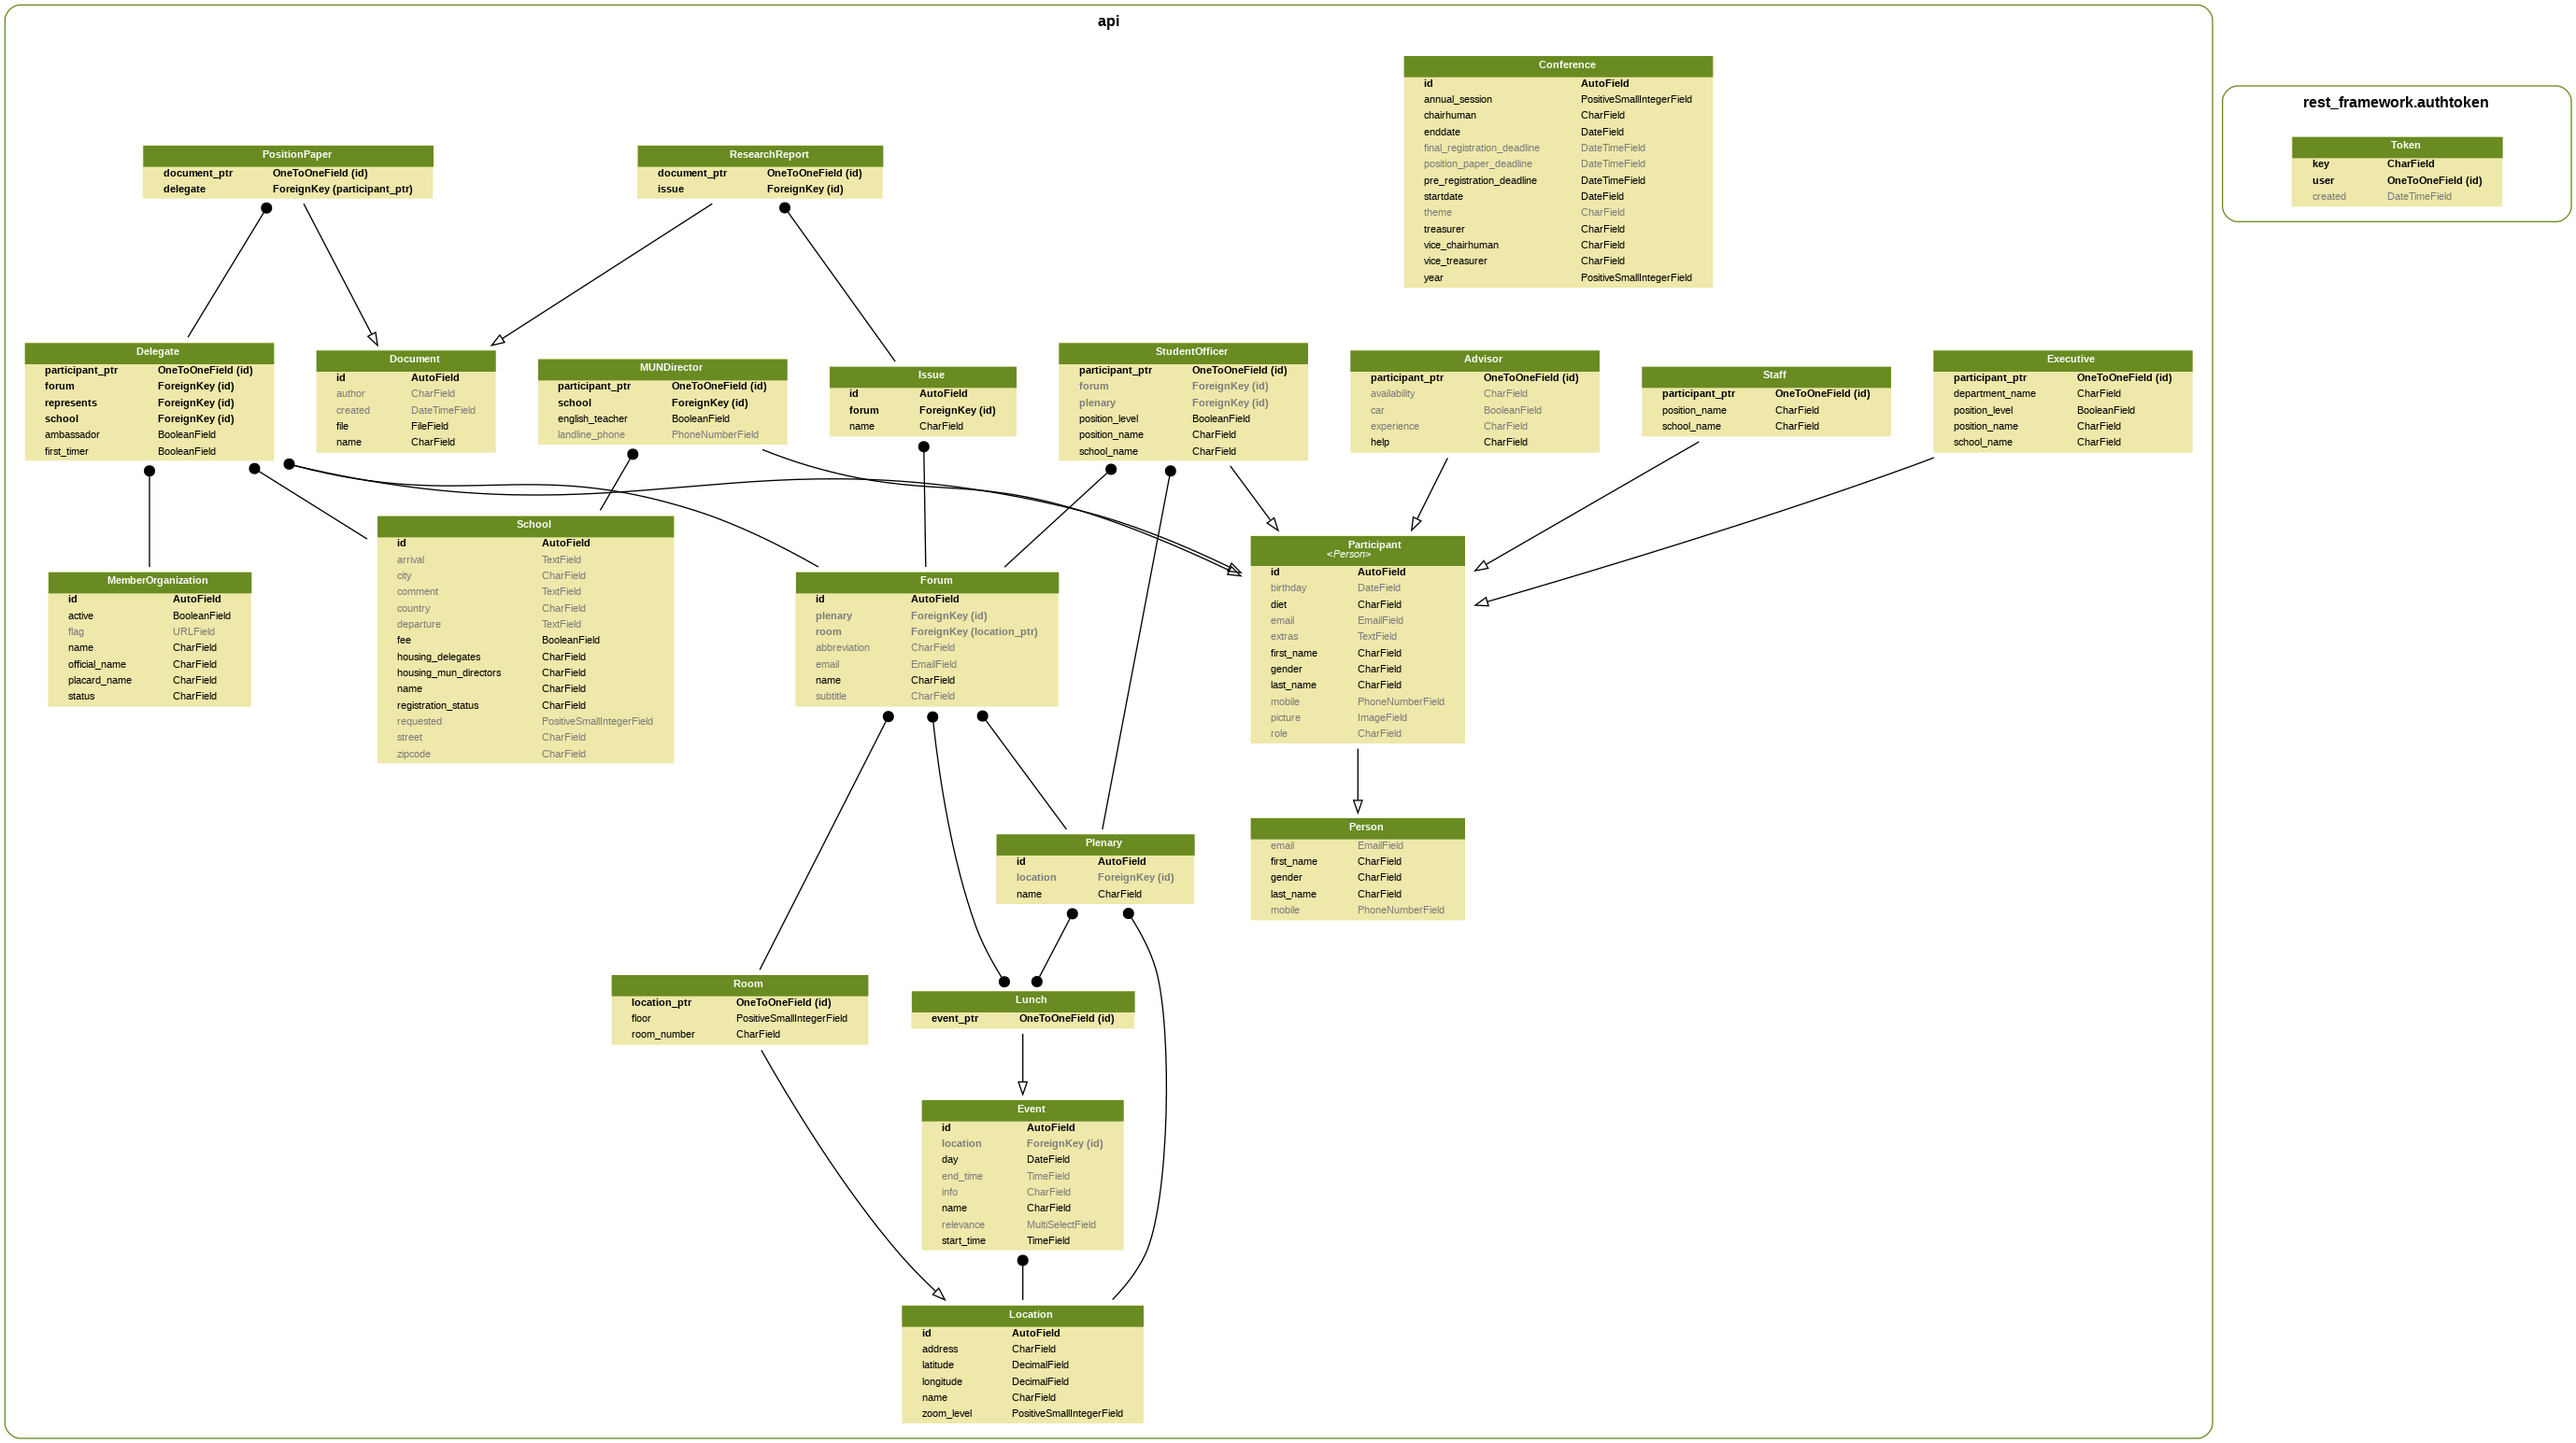
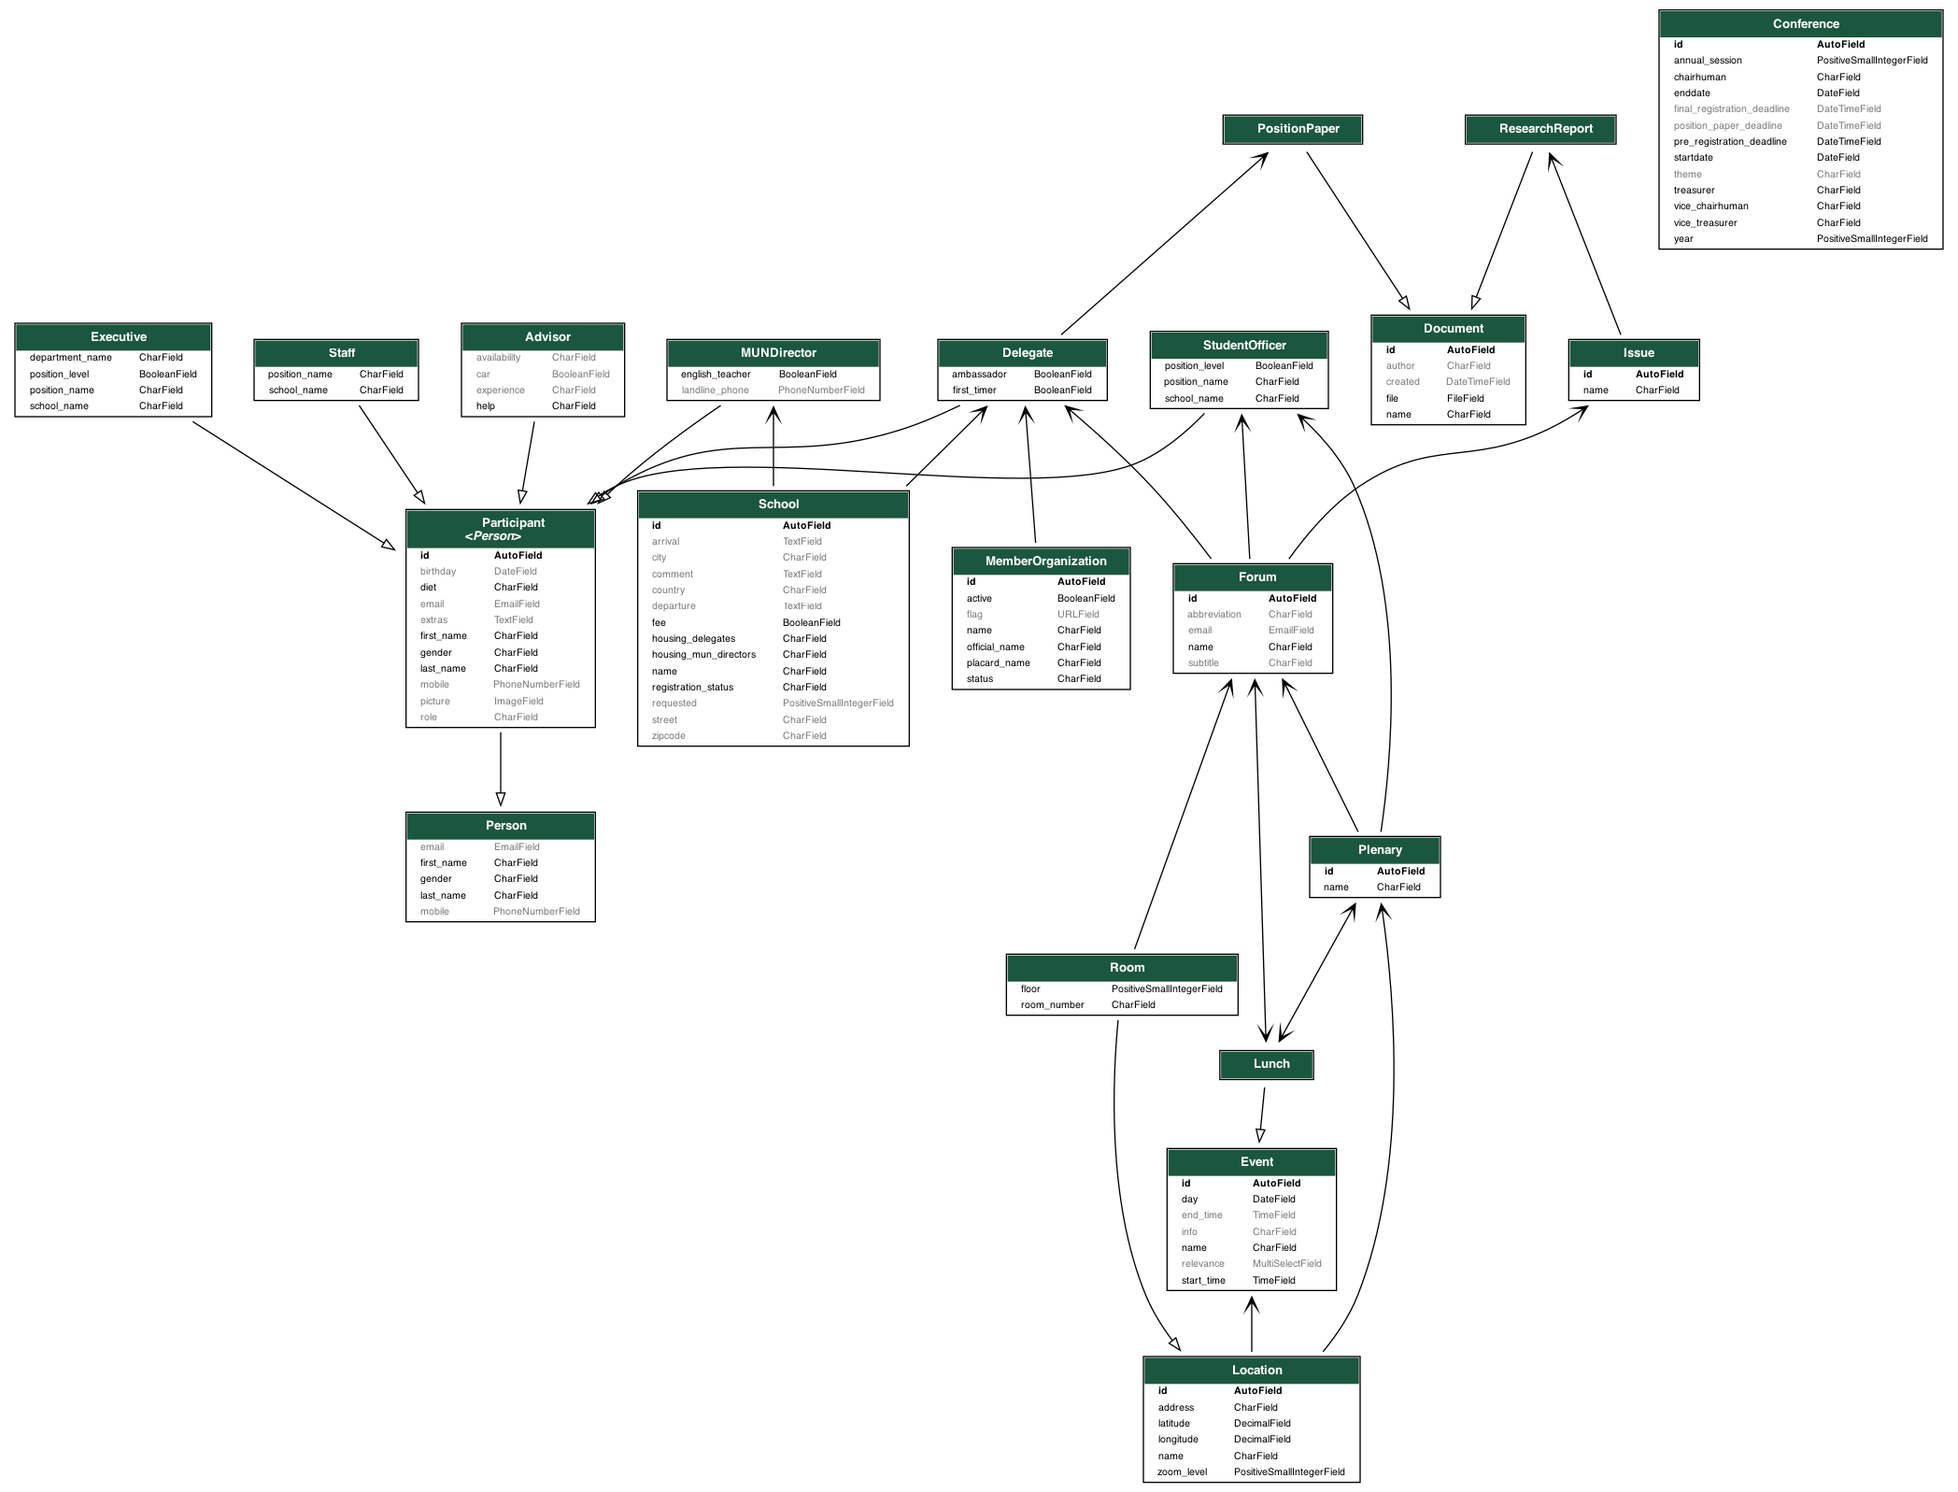
Create better looking graph model visualization

diff --git a/cms/settings.py b/cms/settings.py
@@ -139,8 +139,8 @@ if not DEBUG:
 
 # options for generating a model diagram
 GRAPH_MODELS = {
-  'all_applications': True,
-  'group_models': True,
+  'app_labels': ['api'],
+  
 }
 
 # Authentication methods and Permissions for the REST API

diff --git a/README.md b/README.md
@@ -26,7 +26,7 @@ This diagram demonstrates the models and their fields and relationships.
 
 To generate a diagram from all models excluding the internal classes use
 
-> python manage.py graph_models -a -t original -g --hide-edge-labels -X AbstractBaseSession,Session,User,AbstractBaseUser,PermissionsMixin,AbstractUser,Group,Permission,ContentType,LogEntry -o api_visualization.png
+> python manage.py graph_models api -t django2018 --hide-edge-labels -R --arrow-shape vee -o api_visualization.png
 
 This requires `pygraphviz` to be installed, e.g. by using `pip install pygraphviz`. Depending on your [operating system](https://pygraphviz.github.io/documentation/stable/install.html) `graphviz` needs to be installed additionally, e.g. with `brew` or `apt`.
 
